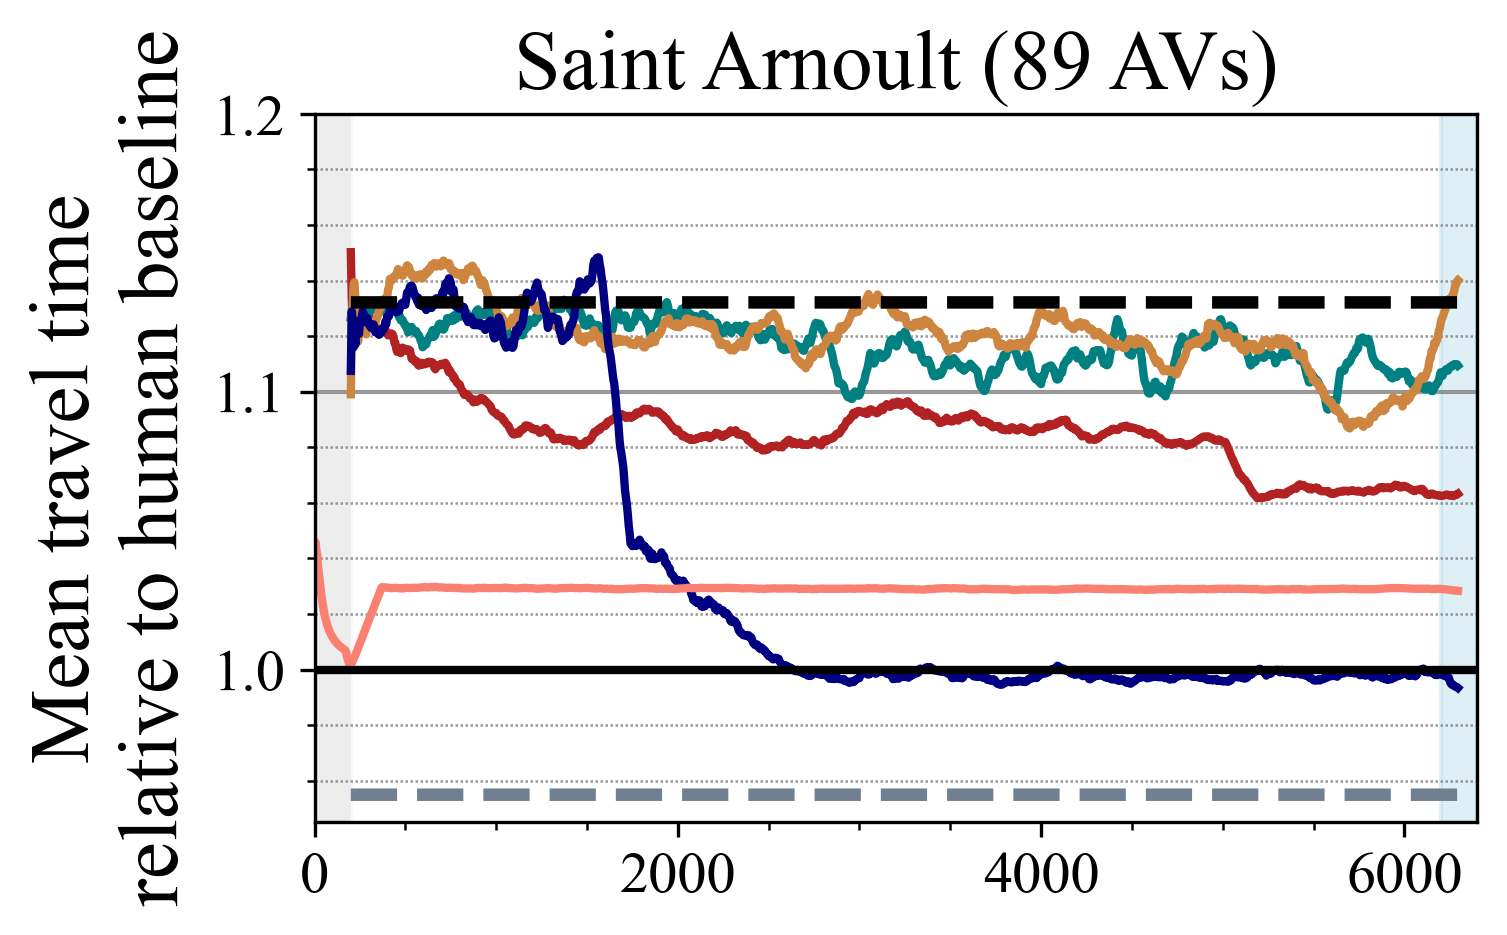
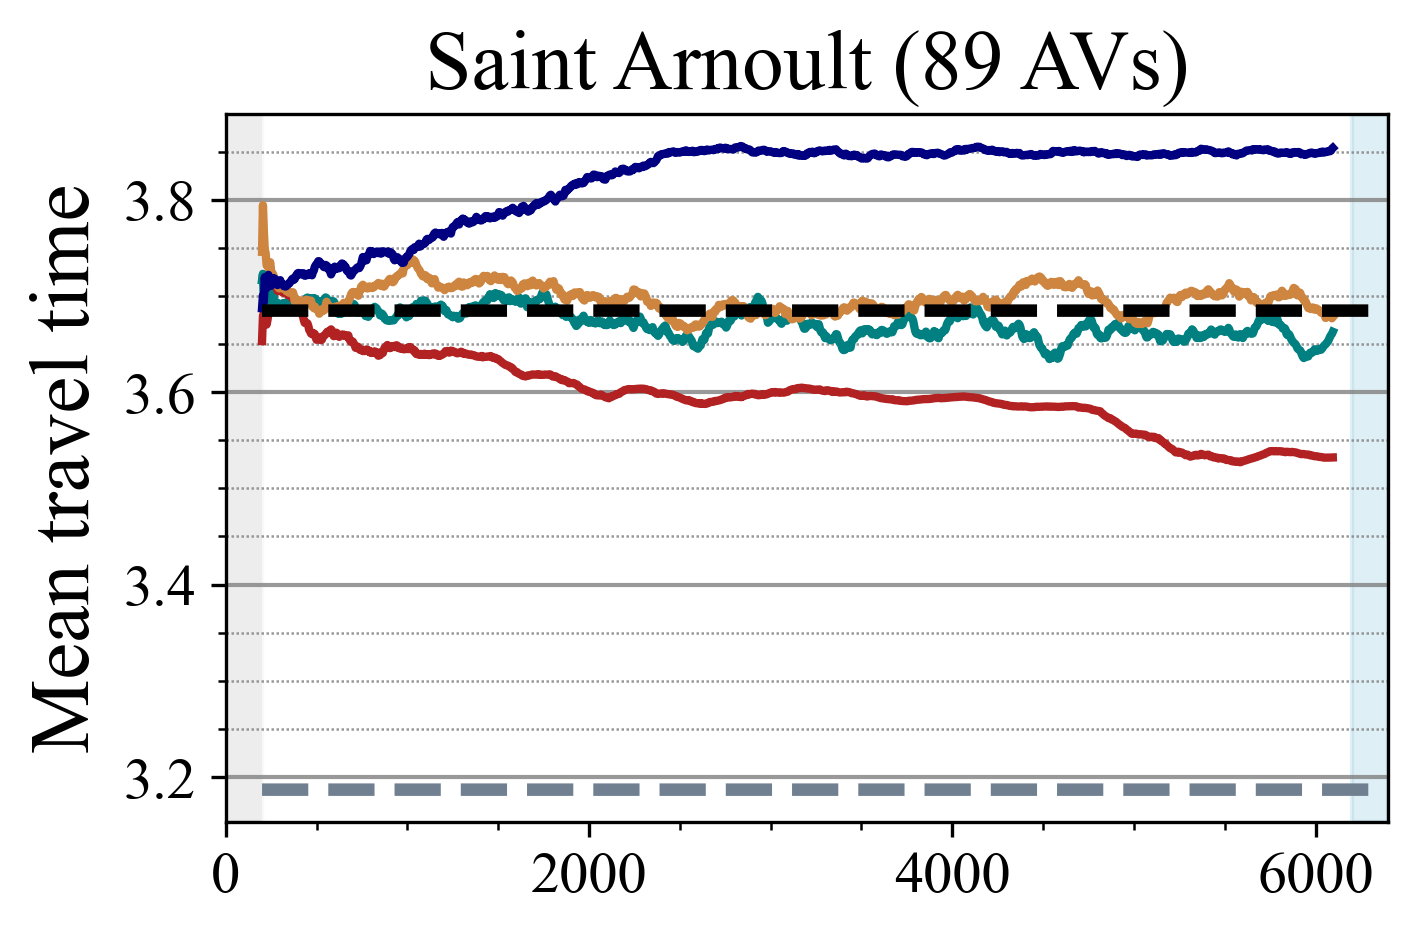
update-100%-avs-plot

diff --git a/plotting_saint_arnold_100avs.py b/plotting_saint_arnold_100avs.py
@@ -99,7 +99,7 @@ import numpy as np
 rcParams['font.family'] = 'Times New Roman'
 
 # Set your actual parent directory here
-parent_dir = os.path.abspath('results/scenario1')
+parent_dir = os.path.abspath('results/scenario2')
 
 # Define suffixes and their readable labels
 group_suffixes = ['_ipp', '_iql', '_map', '_qmi']
@@ -175,16 +175,16 @@ for i, (city_prefix, alg_groups) in enumerate(city_groups.items()):
             print(idx, folder)
             
             ## Humans 
-            human_run = get_travel_times_by_kind(folder, 'Human')
-            human_slice = human_run[30:39]
-            avg_human_tt = sum(human_slice) / len(human_slice)
-            avg_human_tt_list.append(avg_human_tt)
+            #human_run = get_travel_times_by_kind(folder, 'Human')
+            #human_slice = human_run[30:39]
+            #avg_human_tt = sum(human_slice) / len(human_slice)
+            #avg_human_tt_list.append(avg_human_tt)
             
             ## AVs 
             av_run = get_travel_times_by_kind(folder, 'AV')
             start_index = 40  # AVs appear after episode 40
             av_run = [val if idx >= start_index else np.nan for idx, val in enumerate(av_run)]
-            av_run = [val / avg_human_tt for val in av_run]
+            #av_run = [val / avg_human_tt for val in av_run]
             
             if not av_run:
                 continue
@@ -199,13 +199,13 @@ for i, (city_prefix, alg_groups) in enumerate(city_groups.items()):
 
 
     # Plot the last human agent with dashed line
-    human_travel_times = [val / avg_human_tt for val in human_run]
-    smooothed_humans = smooth_series(human_travel_times, window=35, valid_start_index=0)
-    x_humans = [i * 5 for i in range(len(smooothed_humans))]
-    ax.plot(x_humans, smooothed_humans, label='Humans', color='salmon', linestyle='-', linewidth=2)
+    #human_travel_times = [val / avg_human_tt for val in human_run]
+    #smooothed_humans = smooth_series(human_travel_times, window=35, valid_start_index=0)
+    #x_humans = [i * 5 for i in range(len(smooothed_humans))]
+    #ax.plot(x_humans, smooothed_humans, label='Humans', color='salmon', linestyle='-', linewidth=2)
 
     # Compute the avg human tt for all the algorithms
-    avg_all_algos_humans_tt = sum(avg_human_tt_list) / len(avg_human_tt_list) 
+    #avg_all_algos_humans_tt = sum(avg_human_tt_list) / len(avg_human_tt_list) 
             
     ### Calculate the baseline lines        
     if city_prefix in baseline_groups:
@@ -215,7 +215,7 @@ for i, (city_prefix, alg_groups) in enumerate(city_groups.items()):
                 continue
 
             ## Normalize with the avg human travel time of the last episodes folder 
-            av_times = [val / avg_all_algos_humans_tt for val in av_times]
+            #av_times = [val / avg_all_algos_humans_tt for val in av_times]
 
             ## Find the average"""
             average = sum(av_times) / len(av_times) if av_times else float('nan')
@@ -227,7 +227,7 @@ for i, (city_prefix, alg_groups) in enumerate(city_groups.items()):
             ax.plot(x, label=f'{label} (AV)', **style, linewidth=3)
 
     ##S Add a horizontal line at y=1 
-    ax.axhline(y=1, color='black', linestyle='-', linewidth=2)
+    #ax.axhline(y=1, color='black', linestyle='-', linewidth=2)
 
     #S# Add background colour
     ax.axvspan(0, 200, color='lightgrey', alpha=0.4, label='Human Leaning', zorder=0)
@@ -236,11 +236,11 @@ for i, (city_prefix, alg_groups) in enumerate(city_groups.items()):
 
     ### Calculate extravaganze points
     if city_prefix == "ing":
-        folder = "results/scenario1_long/" + city_prefix + "_qm2_xl_1/episodes"
+        folder = "results/scenario2_long/" + city_prefix + "_qm2_xl_1/episodes"
     elif city_prefix == "pro":
-        folder = "results/scenario1_long/" + city_prefix + "_qm2_xl_0/episodes"
+        folder = "results/scenario2_long/" + city_prefix + "_qm2_xl_0/episodes"
     else:
-        folder = "results/scenario1_long/" + city_prefix + "_qm2_xl_2/episodes"
+        folder = "results/scenario2_long/" + city_prefix + "_qm2_xl_2/episodes"
 
     #extravaganza = calculate_extravaganza(folder)
     #normalized_extravaganze = extravaganza / avg_all_algos_humans_tt
@@ -250,7 +250,7 @@ for i, (city_prefix, alg_groups) in enumerate(city_groups.items()):
 
     ### Ticks params and titles
     ax.tick_params(axis='both', labelsize=14)
-    ax.set_yticks([1, 1.1, 1.2])
+    #ax.set_yticks([1, 1.1, 1.2])
     ax.set_title(f"{city_name}", fontsize=20)
     if idx == 1:
         ax.set_xlabel("episodes", fontsize=20)
@@ -268,7 +268,7 @@ for i, (city_prefix, alg_groups) in enumerate(city_groups.items()):
 
     ### Set y axis label only on the rightest plot
     if i == 0:
-        ax.set_ylabel("Mean travel time \nrelative to human baseline", fontsize=20)
+        ax.set_ylabel("Mean travel time", fontsize=20)
         """phases_legend = [
             Patch(facecolor='none', edgecolor='none', label='Phases:'),  # header
             Patch(facecolor='lightgrey', alpha=0.4, label='   Human learning'),
@@ -346,4 +346,4 @@ legend_elements = [
     Line2D([0], [0], color='navy', lw=2, label='QMIX')
 ]"""
 
-fig.savefig('100_per_avs.png', dpi=300, bbox_inches='tight')  # Change filename and format as needed
+fig.savefig('images/100_per_avs.png', dpi=300, bbox_inches='tight')  # Change filename and format as needed
